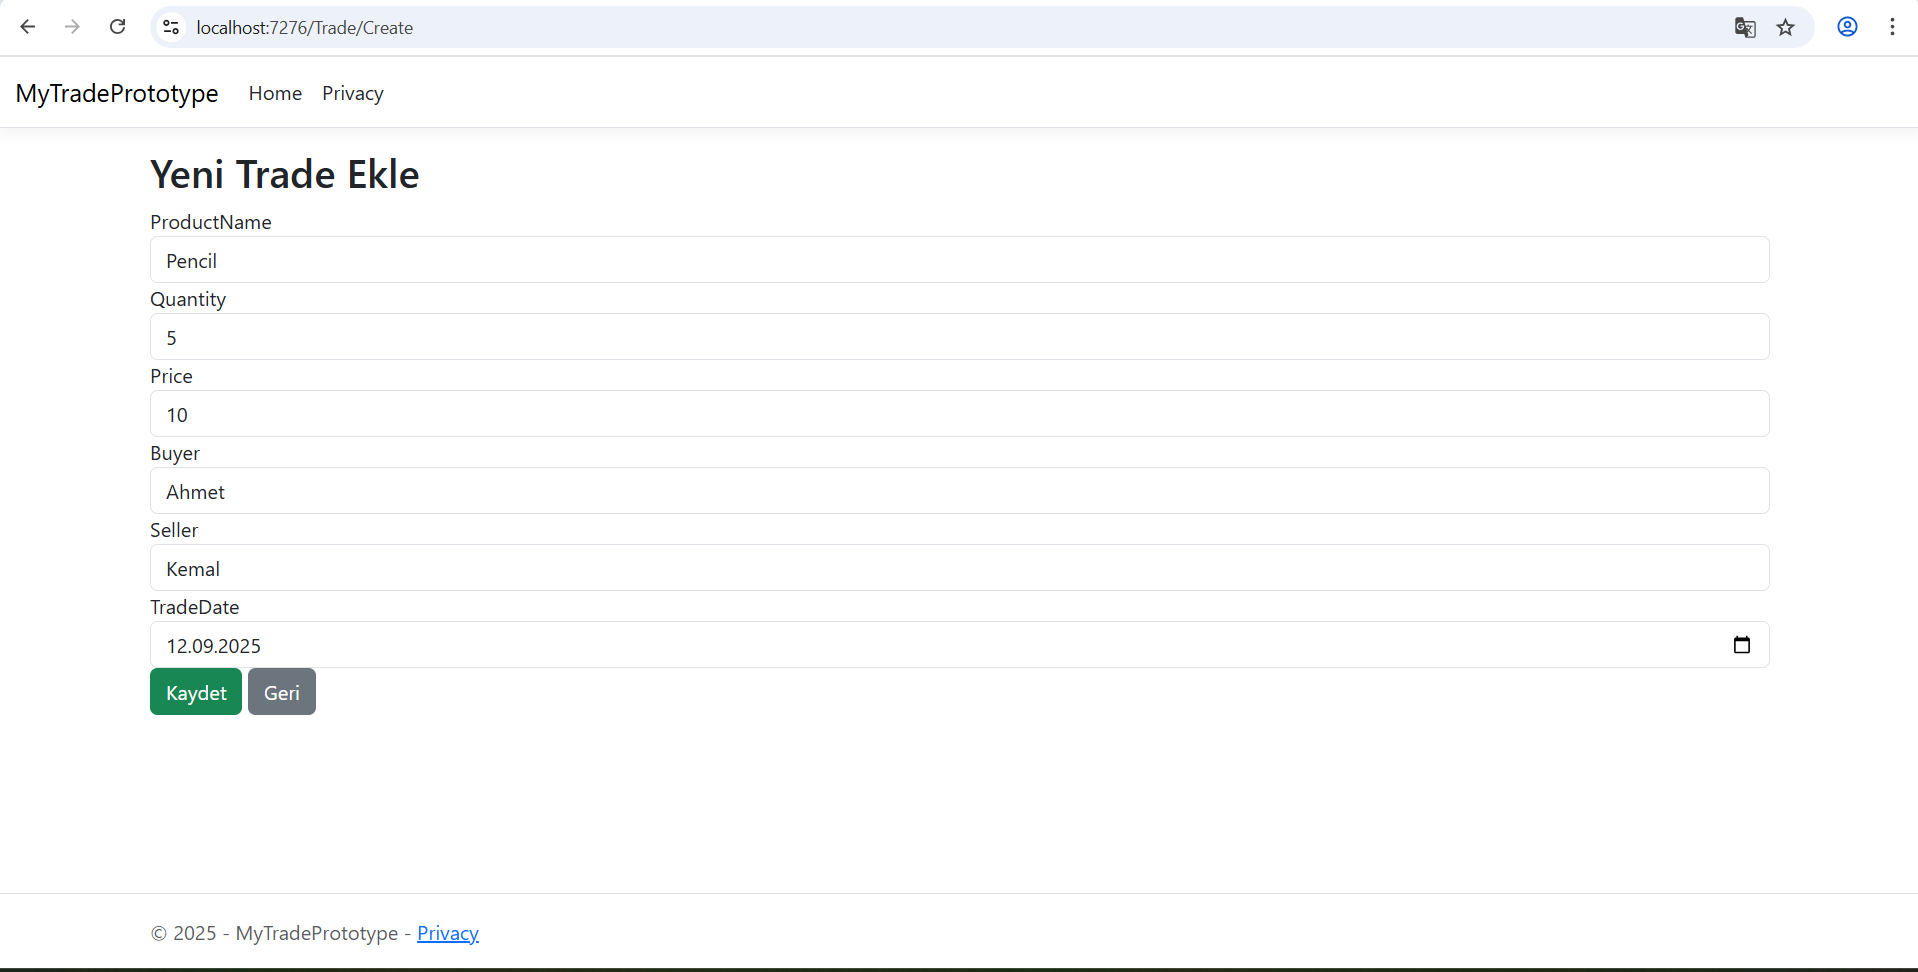
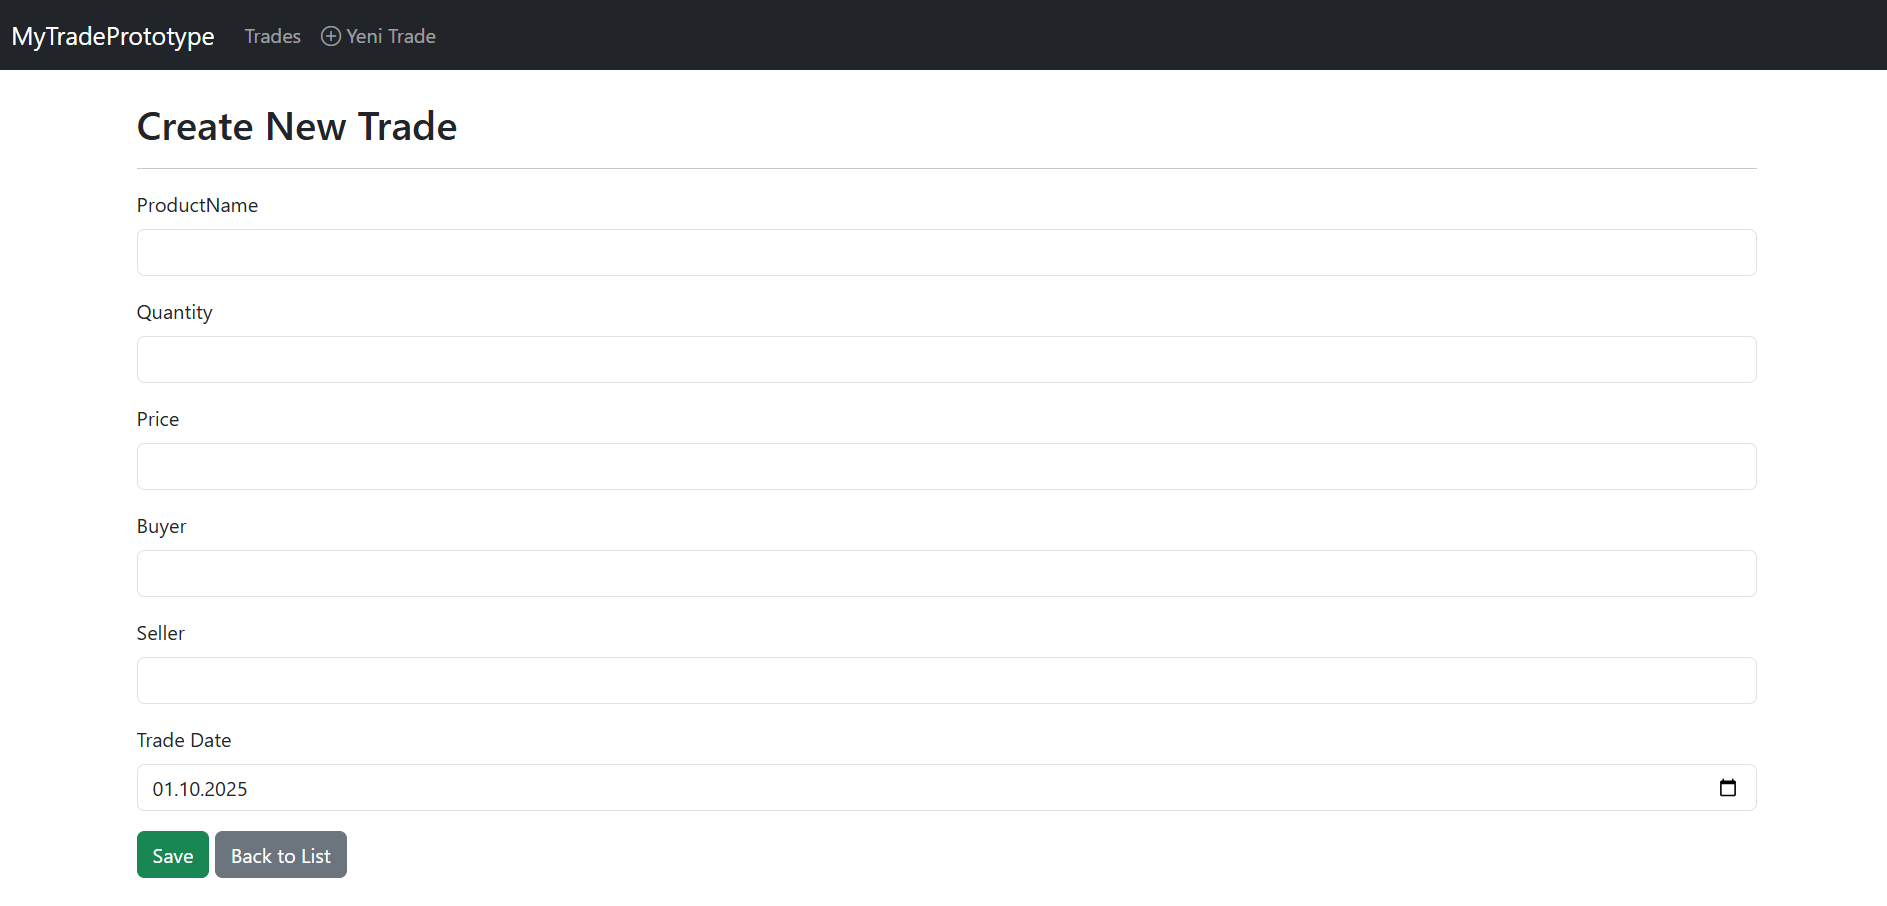
READ ME and screenshots updated

diff --git a/obj/Debug/net9.0/MyTradePrototype.AssemblyInfo.cs b/obj/Debug/net9.0/MyTradePrototype.AssemblyInfo.cs
@@ -14,7 +14,7 @@ using System.Reflection;
 [assembly: System.Reflection.AssemblyCompanyAttribute("MyTradePrototype")]
 [assembly: System.Reflection.AssemblyConfigurationAttribute("Debug")]
 [assembly: System.Reflection.AssemblyFileVersionAttribute("1.0.0.0")]
-[assembly: System.Reflection.AssemblyInformationalVersionAttribute("1.0.0+cf391a2526b75a2a3fc1b2f9e7d39d1816e558fb")]
+[assembly: System.Reflection.AssemblyInformationalVersionAttribute("1.0.0+a883d90a69d153fc811daf446230a956ff7b1d0d")]
 [assembly: System.Reflection.AssemblyProductAttribute("MyTradePrototype")]
 [assembly: System.Reflection.AssemblyTitleAttribute("MyTradePrototype")]
 [assembly: System.Reflection.AssemblyVersionAttribute("1.0.0.0")]

diff --git a/README.md b/README.md
@@ -21,7 +21,7 @@ Bu proje, ASP.NET Core ve Entity Framework Core kullanılarak geliştirilmiş ba
 - ASP.NET Core MVC
 - Entity Framework Core
 - SQL Server (LocalDB)
-- Bootstrap (opsiyonel, ileride eklenebilir)
+- Bootstrap
 
 ---
 
@@ -37,8 +37,15 @@ MyTradePrototype/
 │  └─ ApplicationDbContext.cs
 │
 ├─ Models/
-│  └─ Trade.cs
-│
+│     ├─ Trade.cs
+│     │
+│     ├─ Validation/
+│     │   └─ TradeDateValidationAttribute.cs
+│     │
+│     └─ ViewModels/
+│            ├─ HomeIndexViewModel.cs
+│            └─ Delete.cshtml
+│  
 ├─ Views/
 │  ├─ Trade/
 │  │  ├─ Index.cshtml
@@ -51,9 +58,12 @@ MyTradePrototype/
 │
 ├─ wwwroot/
 ├─ Screenshots/
-│  ├─ Index.png
-│  ├─ Create.png
-│  └─ Details.png
+│  ├─ create.png
+│  ├─ delete.png
+│  ├─ details.png
+│  ├─ edit.png
+│  ├─ home.png
+│  └─ list.png
 │
 ├─ Program.cs
 └─ appsettings.json
@@ -85,14 +95,23 @@ Projeyi çalıştırmak için:
 
 ## 📸 Ekran Görüntüleri
 
-**Index Sayfası**
-![Index](screenshots/index.png)
+**Home Sayfası**
+![Index](screenshots/home.png)
+
+**List Sayfası**
+![Create](screenshots/list.png)
+
+**Details Sayfası**
+![Details](screenshots/details.png)
+
+**Edit Sayfası**
+![Index](screenshots/edit.png)
 
 **Create Sayfası**
 ![Create](screenshots/create.png)
 
-**Details Sayfası**
-![Details](screenshots/details.png)
+**Delete Sayfası**
+![Details](screenshots/delete.png)
 
 ---
 
@@ -100,6 +119,5 @@ Projeyi çalıştırmak için:
 
 - Filtreleme ve sayfalama
 - Kullanıcı yetkilendirmesi (Authentication & Authorization)
-- Gelişmiş arayüz ve Bootstrap entegrasyonu
 - Currency, Status ve PaymentType gibi ek trade bilgileri
 - API entegrasyonu
